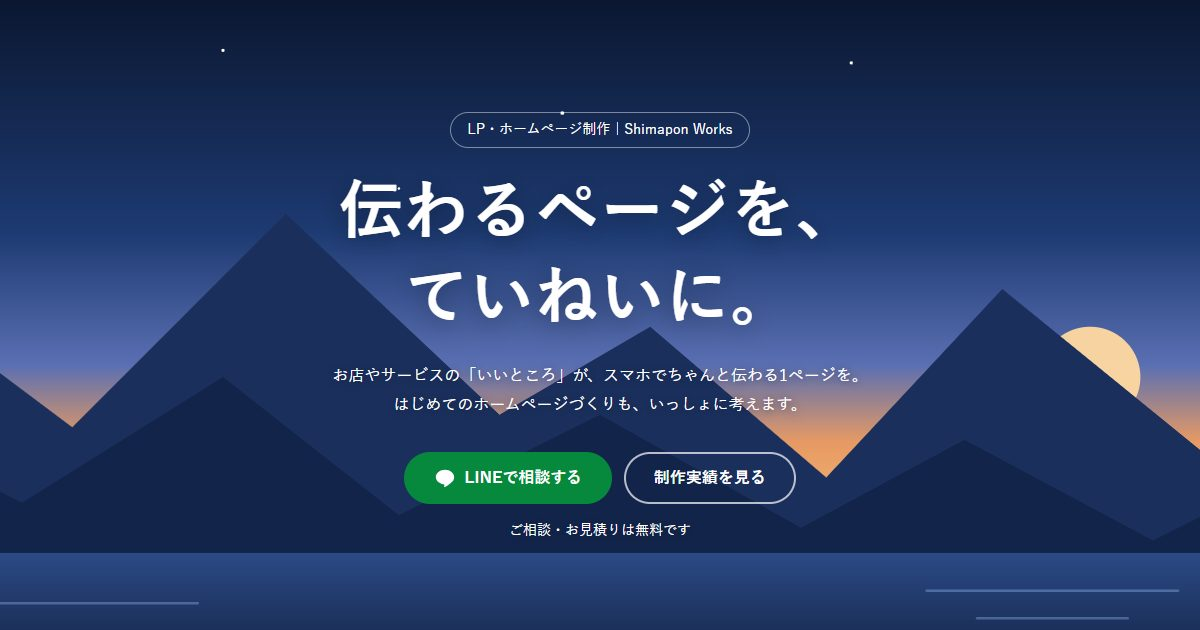
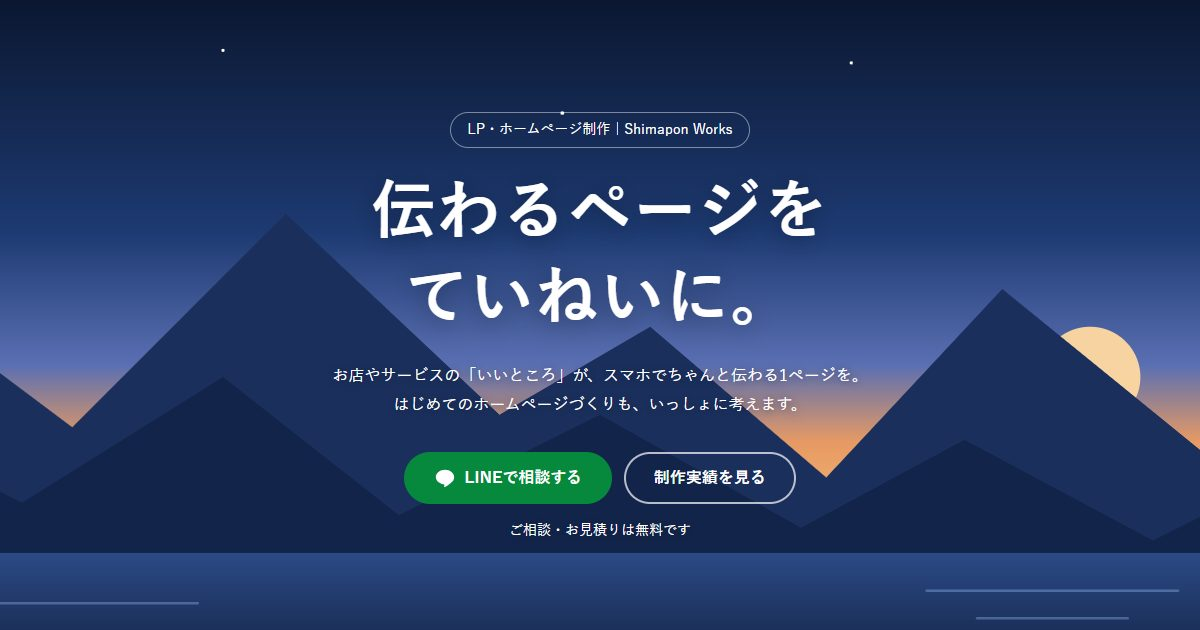
キャッチコピーの読点を外す

Changed region(s): [[0.2775, 0.2714, 0.6783, 0.3921]]

diff --git a/index.html b/index.html
@@ -69,7 +69,7 @@
 
       <div class="container hero__inner">
         <p class="hero__label">LP・ホームページ制作｜Shimapon Works</p>
-        <h1 class="hero__title">伝わるページを、<br>ていねいに。</h1>
+        <h1 class="hero__title">伝わるページを<br>ていねいに。</h1>
         <p class="hero__lead">お店やサービスの「いいところ」が、<br class="sp-only">スマホでちゃんと伝わる1ページを。<br>はじめてのホームページづくりも、<br class="sp-only">いっしょに考えます。</p>
         <div class="hero__buttons">
           <a class="btn btn--line" href="https://lin.ee/WGGFmbW" target="_blank" rel="noopener"><svg class="btn__icon" aria-hidden="true"><use href="#i-line"/></svg>LINEで相談する</a>
